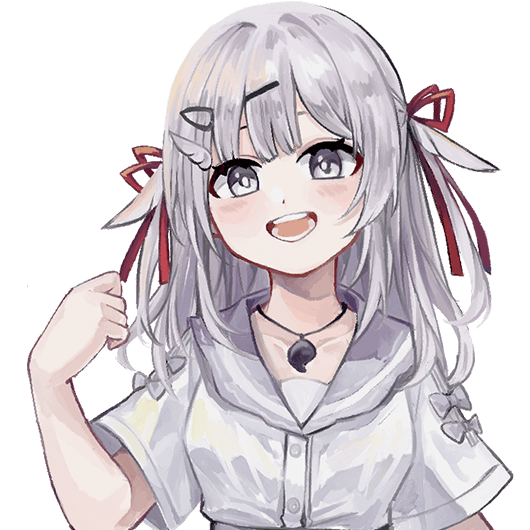
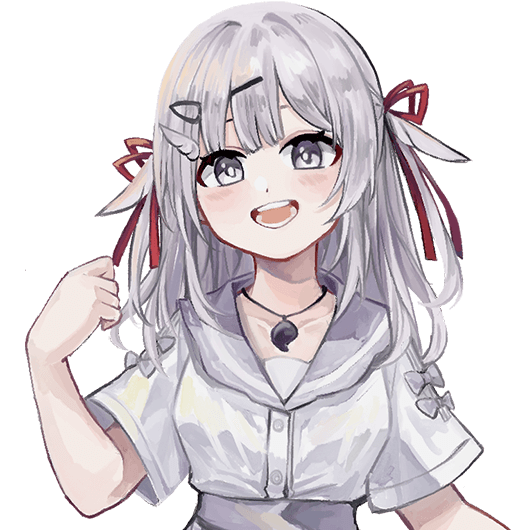
feat: 新增風格 新增混搭字體 真妲圖片重新處理

diff --git a/src/views/SourceInput.vue b/src/views/SourceInput.vue
@@ -11,12 +11,12 @@ import BaseButton from '../components/BaseButton.vue'
 import mergeImages from 'merge-images'
 
 const router = useRouter()
-const isSelected = ref(true)
+const isSelected = ref(false)
 const canvasEl = ref(null)
 const loading = ref(false)
 
 const quotationStore = useQuotationDataStore()
-const { sourceUrl, quotation, hasRainbowText, hasPMingLiU, image, date, shortUrl } = storeToRefs(quotationStore)
+const { sourceUrl, quotation, hasRainbowText, hasPMingLiU, hasMixFontStyle, image, date, shortUrl } = storeToRefs(quotationStore)
 
 const fontStyle = ref(hasPMingLiU.value ? 'PMingLiU' : 'Noto Sans CJK TC')
 
@@ -99,12 +99,14 @@ const getTextImage = (textContent) => {
   // 署名字串
   if (textContent === 'name') {
     const fontSize = 37
-    const xStartPosition = 170
+    const dashXStartPosition = 170
+    const xStartPosition = 260
     const yStartPosition = 485
     const name = getName()
     canvasContext.font = `${fontSize}px ${fontStyle.value}`
     hasRainbowText.value && setRainbowText(canvasContext, yStartPosition, fontSize)
-    canvasContext.fillText(name, xStartPosition, yStartPosition)
+    setText(canvasContext, '——', fontSize, dashXStartPosition, yStartPosition)
+    setText(canvasContext, name, fontSize, xStartPosition, yStartPosition)
   }
 
   // 日期字串
@@ -115,7 +117,7 @@ const getTextImage = (textContent) => {
     canvasContext.font = `${fontSize}px ${fontStyle.value}`
     const dateString = date.value ? quotationStore.formatDate(date.value, ' . ') : ''
     hasRainbowText.value && setRainbowText(canvasContext, yStartPosition, fontSize)
-    canvasContext.fillText(`${dateString}`, xStartPosition, yStartPosition)
+    canvasContext.fillText(dateString, xStartPosition, yStartPosition)
   }
 
   // 來源短網址字串
@@ -139,18 +141,18 @@ const setTextOnImage = (text, canvas) => {
   // 若字體僅一行，水平置中
   if (totalLines === 1) {
     const textWidth = canvas.measureText(textArray[0]).width
-    const startPosition = (canvasEl.value.width - textWidth) / 2 - 20 // 20為x軸位置(留白)，因此計算上須扣除
+    const startXPosition = (canvasEl.value.width - textWidth) / 2 - 20 // 20為x軸位置(留白)，因此計算上須扣除
     hasRainbowText.value && setRainbowText(canvas, startYPosition, fontSize)
-    canvas.fillText(textArray[0], startPosition, startYPosition) // 20為x軸位置(留白)，因此計算上須扣除
+    setText(canvas, textArray[0], fontSize, startXPosition, startYPosition)
   }
 
   // 超過一行，多行排列
   if (totalLines > 1) {
     const longestTextWidth = canvas.measureText(getLongestString(textArray)).width
-    const startPosition = (canvasEl.value.width - longestTextWidth) / 2 - 20 // 20為x軸位置(留白)，因此計算上須扣除
+    const startXPosition = (canvasEl.value.width - longestTextWidth) / 2 - 20 // 20為x軸位置(留白)，因此計算上須扣除
     textArray.forEach((element, i) => {
       hasRainbowText.value && setRainbowText(canvas, startYPosition + i * lineHeight, fontSize)
-      canvas.fillText(element, startPosition, startYPosition + i * lineHeight)
+      setText(canvas, element, fontSize, startXPosition, startYPosition + i * lineHeight)
     })
   }
 }
@@ -165,6 +167,21 @@ const setRainbowText = (canvas, yPosition, textHeight) => {
   })
   // Fill with gradient
   canvas.fillStyle = gradient
+}
+
+// 判斷是否套用混搭字體，並填上文字
+const setText = (canvas, text, fontSize, xPosition, yPosition) => {
+  const fontArray = ['PMingLiU', 'Noto Sans CJK TC', 'DFKai-SB', 'Microsoft YaHei', 'Microsoft JhengHei']
+
+  if (hasMixFontStyle.value) {
+    for (let i = 0; i < text.length; i++) {
+      const randomNum = Math.floor(Math.random() * fontArray.length)
+      canvas.font = `${fontSize}px ${fontArray[randomNum]}`
+      canvas.fillText(text[i], xPosition + (fontSize * i), yPosition)
+    }
+  } else {
+    canvas.fillText(text, xPosition, yPosition)
+  }
 }
 
 // 轉為全形字體
@@ -217,17 +234,17 @@ const getName = () => {
   const name = image.value.split('_')[0]
   switch (name) {
     case 'dada':
-      return '──  灰妲'
+      return '灰妲'
     case 'yoda':
-      return '──  幼妲'
+      return '幼妲'
     case 'chenda':
-      return '──  真妲'
+      return '真妲'
     case 'dage':
-      return '──  妲哥'
+      return '妲哥'
     case 'dabird':
-      return '──  鳥球'
+      return '鳥球'
     default:
-      return '──  灰妲'
+      return '灰妲'
   }
 }
 
@@ -580,4 +597,10 @@ input[type=text] {
     max-width: 40rem;
   }
 }
+
+@font-face {
+  font-family: "cwTeXYen";
+  src: url(https://fonts.googleapis.com/earlyaccess/cwtexyen.css)
+}
+
 </style>

diff --git a/src/views/QuotationInput.vue b/src/views/QuotationInput.vue
@@ -109,6 +109,11 @@ const setPMingLiU = (event) => {
   quotationStore.setPMingLiU(event.target.checked)
 }
 
+const hasMixFontStyle = ref(quotationStore.hasMixFontStyle)
+const setMixFontStyle = (event) => {
+  quotationStore.setMixFontStyle(event.target.checked)
+}
+
 // Button router
 const router = useRouter()
 const toImageSelection = () => {
@@ -278,6 +283,17 @@ const toImageSelection = () => {
                 >
                 <label for="hasPMingLiU">
                   新細明體
+                </label>
+              </div>
+              <div>
+                <input
+                  id="hasMixFontStyle"
+                  v-model="hasMixFontStyle"
+                  type="checkbox"
+                  @change="setMixFontStyle"
+                >
+                <label for="hasMixFontStyle">
+                  混搭字體
                 </label>
               </div>
             </div>
@@ -454,7 +470,8 @@ input[type=checkbox] {
   }
   .style__select {
     display: flex;
-    gap: 2rem;
+    flex-wrap: wrap;
+    gap:1rem 2rem;
   }
 }
 

diff --git a/src/store/quotationData.js b/src/store/quotationData.js
@@ -31,9 +31,15 @@ export const useQuotationDataStore = defineStore('quotationData', () => {
   const setRainbowText = (checkValue) => {
     hasRainbowText.value = checkValue
   }
+
   const hasPMingLiU = ref(false)
   const setPMingLiU = (checkValue) => {
     hasPMingLiU.value = checkValue
+  }
+
+  const hasMixFontStyle = ref(false)
+  const setMixFontStyle = (checkValue) => {
+    hasMixFontStyle.value = checkValue
   }
 
   // Image
@@ -82,6 +88,8 @@ export const useQuotationDataStore = defineStore('quotationData', () => {
     setRainbowText,
     hasPMingLiU,
     setPMingLiU,
+    hasMixFontStyle,
+    setMixFontStyle,
     image,
     setImage,
     sourceUrl,
